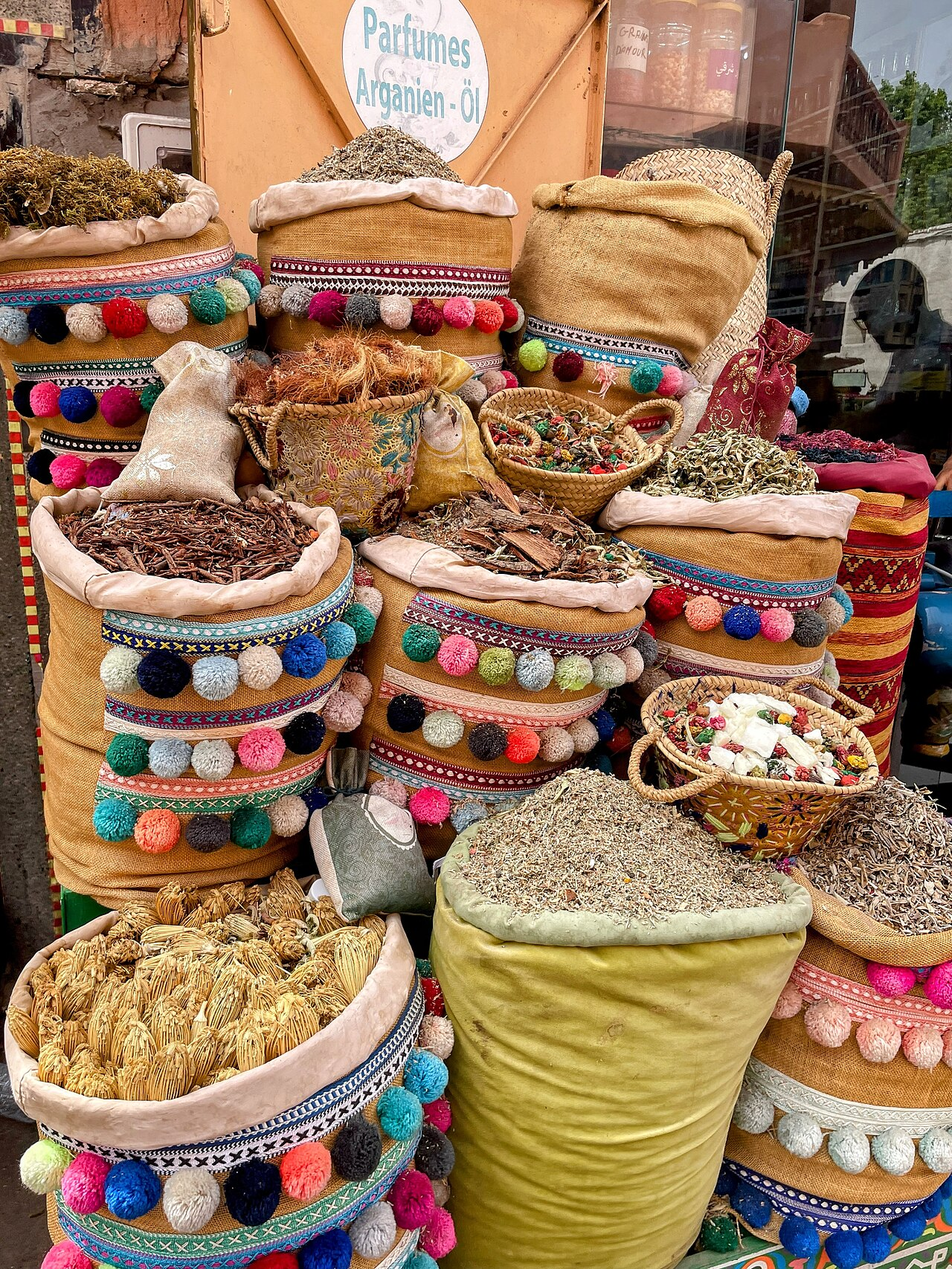
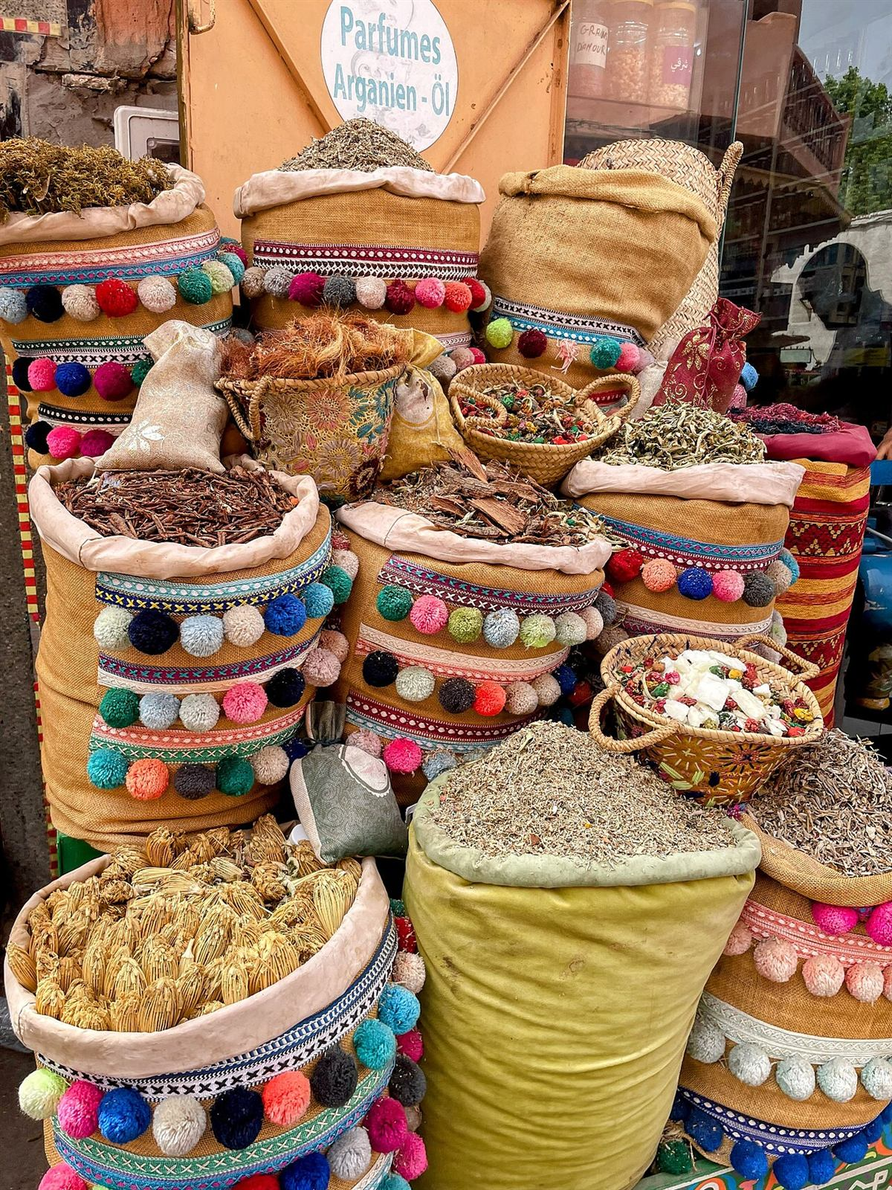
Add analytics and a 404 page, lighten images, remove test page.
Hero PNG (2.5 MB) becomes a 128 KB JPG plus a 68 KB 1200x630 social preview. Heaviest photos recompressed. Vercel Analytics added to the root layout.

diff --git a/src/app/not-found.tsx b/src/app/not-found.tsx
@@ -1,0 +1,67 @@
+import type { Metadata } from 'next';
+import Link from 'next/link';
+import Image from 'next/image';
+import { ArrowRight } from 'lucide-react';
+import { CITY_HUBS } from '@/data/cities';
+
+export const metadata: Metadata = {
+  title: 'Page not found',
+  robots: { index: false },
+};
+
+export default function NotFound() {
+  return (
+    <div className="bg-[var(--paper)]">
+      <div className="max-w-6xl mx-auto px-4 sm:px-6 py-16 md:py-24 grid md:grid-cols-2 gap-10 md:gap-16 items-center">
+        <div>
+          <p className="text-[var(--zellige)] text-xs font-bold tracking-[0.22em] uppercase mb-3">
+            404
+          </p>
+          <h1 className="font-display text-4xl md:text-6xl font-bold text-[var(--ink)] leading-[1.05]">
+            Lost in the medina
+          </h1>
+          <p className="mt-5 text-[var(--ink-soft)] text-lg leading-relaxed max-w-md">
+            This page doesn&apos;t exist, or it moved. Happens to the best of us in the souks.
+            Here&apos;s the way back.
+          </p>
+
+          <div className="mt-8 flex flex-col sm:flex-row gap-3">
+            <Link href="/" className="btn-primary">
+              Back to home <ArrowRight className="w-4 h-4" />
+            </Link>
+            <Link
+              href="/discover"
+              className="inline-flex items-center justify-center gap-2 font-semibold py-3 px-6 rounded-md border border-[var(--ink)]/20 text-[var(--ink)] hover:border-[var(--brand)] hover:text-[var(--brand)] transition-colors"
+            >
+              Discover places
+            </Link>
+          </div>
+
+          <p className="mt-10 text-sm font-semibold text-[var(--ink)]">City guides</p>
+          <div className="mt-3 flex flex-wrap gap-2">
+            {CITY_HUBS.map((c) => (
+              <Link
+                key={c.slug}
+                href={`/${c.slug}`}
+                className="text-sm px-3 py-1.5 rounded-full border border-[var(--ink)]/15 text-[var(--ink-soft)] hover:border-[var(--brand)] hover:text-[var(--brand)] transition-colors"
+              >
+                {c.name}
+              </Link>
+            ))}
+          </div>
+        </div>
+
+        <div className="relative aspect-[4/3] rounded-[12px] overflow-hidden shadow-[0_20px_45px_-18px_rgba(21,32,43,0.45)]">
+          <Image
+            src="/images/places/souk-semmarine.jpg"
+            alt="Souk Semmarine alley in the Marrakech medina"
+            fill
+            sizes="(max-width: 768px) 100vw, 50vw"
+            className="object-cover"
+            priority
+          />
+        </div>
+      </div>
+    </div>
+  );
+}

diff --git a/src/app/layout.tsx b/src/app/layout.tsx
@@ -1,4 +1,5 @@
 import type { Metadata } from "next";
+import { Analytics } from "@vercel/analytics/next";
 import { Bricolage_Grotesque, Figtree, Noto_Sans_Arabic } from "next/font/google";
 import SiteNav, { NavSpacer } from "@/components/SiteNav";
 import SiteFooter from "@/components/SiteFooter";
@@ -59,7 +60,7 @@ export const metadata: Metadata = {
     type: "website",
     images: [
       {
-        url: absoluteUrl("/images/welcomebackground.png"),
+        url: absoluteUrl("/images/og-home.jpg"),
         width: 1200,
         height: 630,
         alt: `${SITE_NAME} — Morocco travel companion`,
@@ -70,7 +71,7 @@ export const metadata: Metadata = {
     card: "summary_large_image",
     title: `${SITE_NAME} - ${SITE_TAGLINE}`,
     description: DEFAULT_DESCRIPTION,
-    images: [absoluteUrl("/images/welcomebackground.png")],
+    images: [absoluteUrl("/images/og-home.jpg")],
   },
   robots: {
     index: true,
@@ -124,6 +125,7 @@ export default function RootLayout({
           {children}
           <SiteFooter />
         </Providers>
+        <Analytics />
       </body>
     </html>
   );

diff --git a/src/app/page.tsx b/src/app/page.tsx
@@ -104,7 +104,7 @@ export default function Home() {
         <HeroParallax className="absolute inset-0 scale-110 origin-center">
           <div className="absolute inset-0">
             <Image
-              src="/images/welcomebackground.png"
+              src="/images/welcomebackground.jpg"
               alt=""
               fill
               priority
